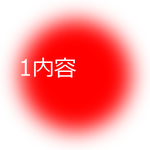
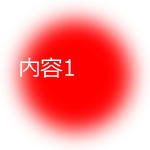
やっとバブルできるようになった

Changed region(s): [[0.1333, 0.3733, 0.5067, 0.5333]]

diff --git a/static/bubble.js b/static/bubble.js
@@ -1,28 +1,7 @@
 var Example = Example || {};
 
-var json_data = [];
-var url = "http://127.0.0.1:5000/uploads/";
-
-// $.getJSON('../todo-list.json',function(data){
-//     for(let i=0; i < data.length; i++){
-//         json_data.push(data[i]["content"]);
-//     }
-// });
-
-
-function init(app_route="/get") {
-    // データの初期表示
-    fetch(app_route).then(response => {
-        console.log(response)
-        response.json().then((data) => {
-            console.log(data);
-        })
-    })
-}
-
-
-
-
+//本番は変える
+var url = "http://127.0.0.1:5000";
 
 // htmlのページを読み込まれたときに処理をする
 window.onload = function() {
@@ -47,7 +26,7 @@ window.onload = function() {
         options: {
             width: 800,
             height: 600,
-            background: '#0f0f13',
+            background: '#fff',
             showAngleIndicator: false,
             wireframes: false
         }
@@ -75,55 +54,38 @@ window.onload = function() {
         Bodies.rectangle(-offset, 300, 50.5, 600.5 + 2 * offset, options)
     ]);
     
-     //<<JSONを読み込む　未実装　はじまり>>
-    // ###--要素作成--###
-    //jsonまたはページ上のデータを直接読み込み
+    var created_count = 0;
 
+    //JSONデータをフェッチ
+    fetch("/get").then(response => {
+        response.json().then((data) => {
 
-    // json_data = fetch("./todo-list.json")
-    // .then(response => response.json())
-    // .then(function(json){
-    //     return json;
-    // });
-    //バブルがつくられた回数
-    var created_count = -1;
-    //
-    //<<未実装　おわり>>
-    console.log("Start");
-    init();
-
-    //TODO
-    var stack = Composites.stack(20, 20, 10, 4, 0, 0, function(x, y) {
-
-        var name_list = json_data;
-       
-
-        function create_circle(x,y,name){
-            return Bodies.circle(x, y, 46, {
-                density: 0.001,
-                frictionAir: 0.3,
-                restitution: 0.03,
-                friction: 0.05,
-                render: {
-                    sprite: {
-                        //img/${name}.png
-                        //{{url_for('static', filename='ayrton_senna_movie_wallpaper_by_bashgfx-d4cm6x6.jpg')}}
-                        texture: `${url} + ${name}.png`
+            var stack = Composites.stack(20, 20, 10, 4, 0, 0, function(x, y) {
+                
+                for (let i = 0;i < data.length;i++){
+                    if (created_count == i) {
+                        created_count += 1
+                        return Bodies.circle(x, y, 46, {
+                            density: 0.001,
+                            frictionAir: 0.3,
+                            restitution: 0.03,
+                            friction: 0.05,
+                            render: {
+                                sprite: {
+                                    //画像貼り付け
+                                    texture: `${url}/upload_img/${data[i]["content"]}.png`
+                                }
+                            }
+                        });
                     }
                 }
             });
-            }
 
-        //配列の要素以上に処理を行わない
-        if(created_count+1 >= name_list.length){
-            return;
-        }else{
-            created_count = created_count+1;
-            return create_circle(x,y,name_list[created_count]);
-        }
-    });
+            World.add(world, stack);
 
-    World.add(world, stack);
+        })
+    })
+
 
     // add mouse control
     var mouse = Mouse.create(render.canvas),

diff --git a/static/main.js b/static/main.js
@@ -4,16 +4,16 @@
 function init(app_route="/get") {
     // データの初期表示
     fetch(app_route).then(response => {
-        console.log(response)
+        //console.log(response)
         response.json().then((data) => {
-            console.log(data) // 取得されたレスポンスデータをデバッグ表示
+            //console.log(data) // 取得されたレスポンスデータをデバッグ表示
             // データを表示させる
             const tableBody = document.querySelector("#todo-list > tbody")
             tableBody.innerHTML = ""
             
             data.forEach(elm => {
                 // 1行づつ処理を行う
-                console.log(elm)
+                //console.log(elm)
                 let tr = document.createElement('tr')
                 // チェックボックス
                 let td = document.createElement('td')

diff --git a/templates/index.html b/templates/index.html
@@ -72,6 +72,6 @@
     <script src="../static/bubble.js"></script>
 
     <!-- バブル発生のコード -->
-    <script src="{{ url_for('static', filename='bubble.js') }}"></script>
+    <script defer src="{{ url_for('static', filename='bubble.js') }}"></script>
 </body>
 </html>

diff --git a/app.py b/app.py
@@ -114,11 +114,13 @@ def index():
     return(render_template("index.html"))
 
 
-UPLOAD_FOLDER = "./img"
+@app.route('/upload_img/<filename>') 
+def send_img(filename):
+    return send_from_directory("./img", filename) 
 
-@app.route('/uploads/<filename>') 
-def send_file(filename): 
-    return send_from_directory(UPLOAD_FOLDER, filename) 
+@app.route('/upload_json/<filename>') 
+def send_json(filename):
+    return send_from_directory("./", filename) 
 
 if __name__ == "__main__":
     # debugモードが不要の場合は、debug=Trueを消してください
